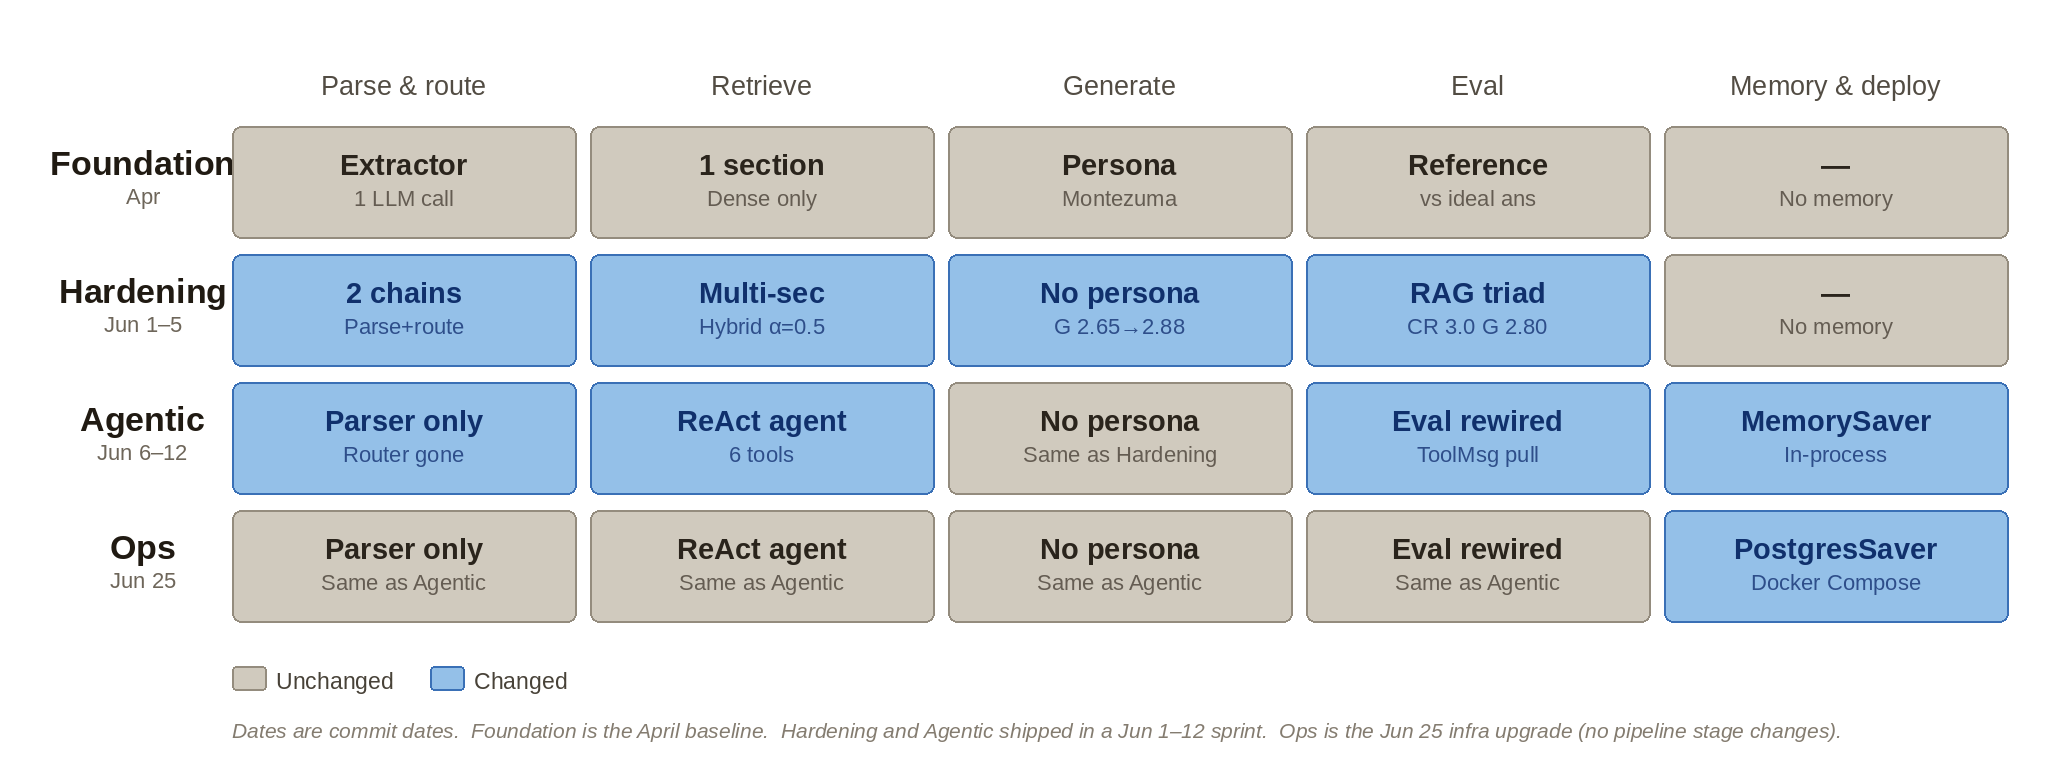
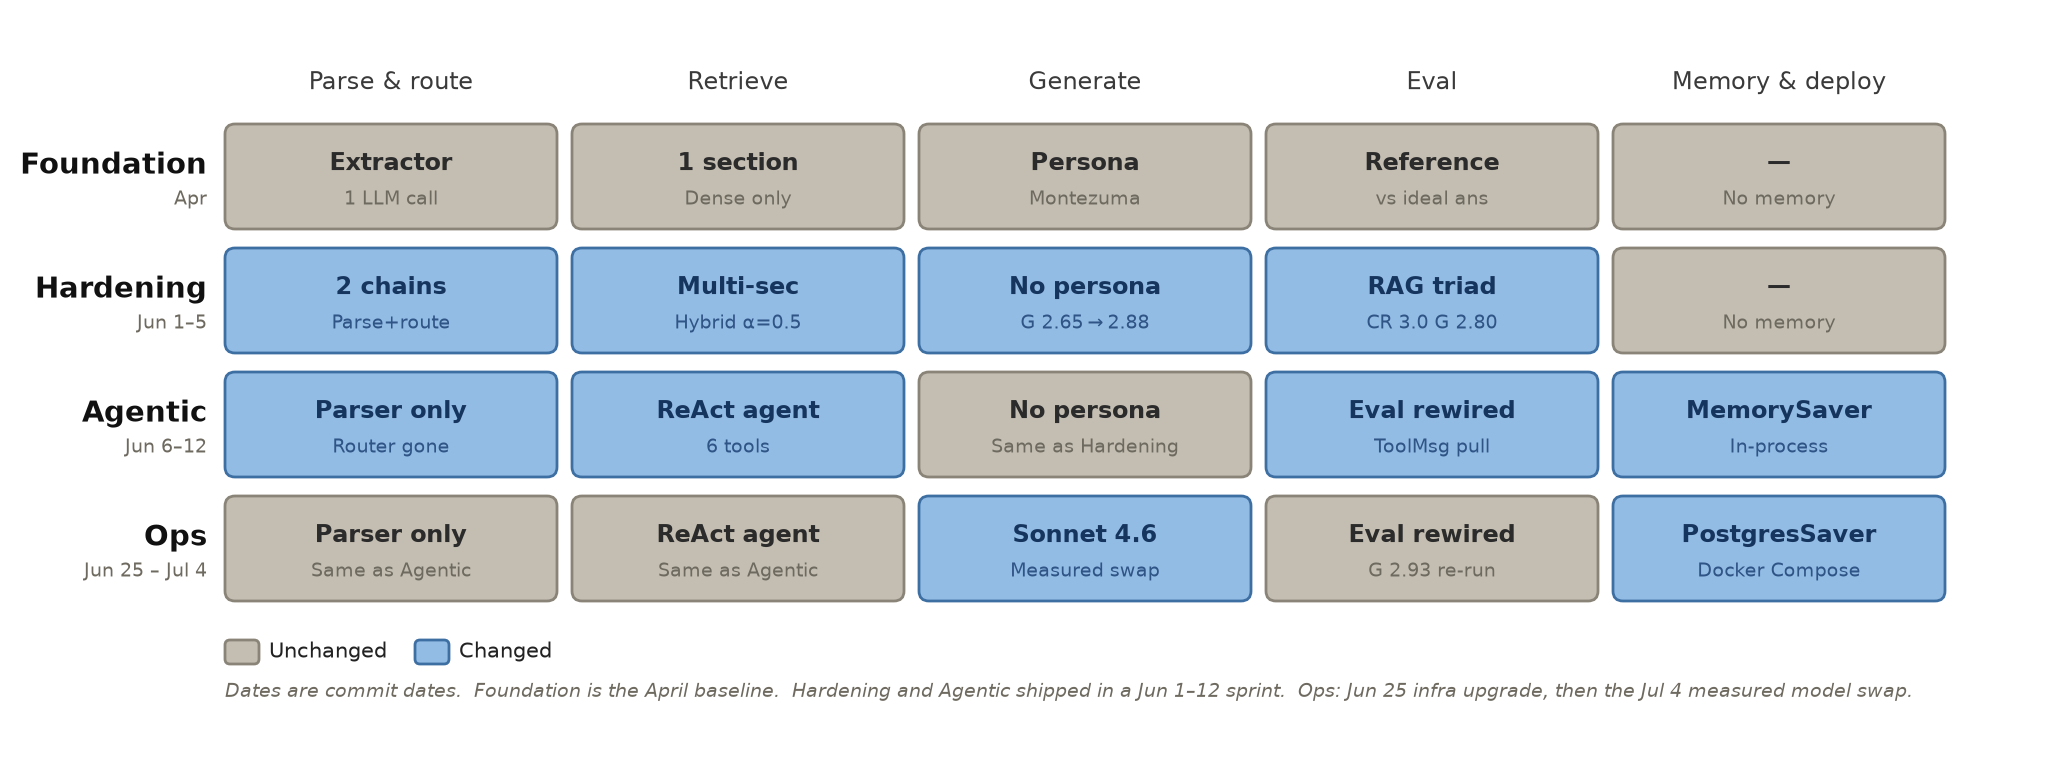
updated diagram

diff --git a/docs/civ_rag_evolution.py b/docs/civ_rag_evolution.py
@@ -1,0 +1,140 @@
+"""Generates docs/civ_rag_evolution.png (the architecture evolution diagram).
+
+Regenerate after any phase/stage change:
+
+    uv run --with matplotlib python docs/civ_rag_evolution.py
+
+Gray = stage carried over unchanged; blue = deliberate architecture decision.
+"""
+
+import matplotlib.pyplot as plt
+from matplotlib.patches import FancyBboxPatch
+
+# --- style ---------------------------------------------------------------
+GRAY_FILL = "#C4BEB2"
+GRAY_EDGE = "#8A8478"
+GRAY_TITLE = "#2B2B2B"
+GRAY_SUB = "#6E6A60"
+
+BLUE_FILL = "#93BCE5"
+BLUE_EDGE = "#3E6FA3"
+BLUE_TITLE = "#16355E"
+BLUE_SUB = "#2F5486"
+
+HEADER_COLOR = "#3A3A3A"
+FOOT_COLOR = "#6E6A60"
+
+# --- content ---------------------------------------------------------------
+COLUMNS = ["Parse & route", "Retrieve", "Generate", "Eval", "Memory & deploy"]
+
+ROWS = [
+    ("Foundation", "Apr"),
+    ("Hardening", "Jun 1–5"),
+    ("Agentic", "Jun 6–12"),
+    ("Ops", "Jun 25 – Jul 4"),
+]
+
+# (title, subtitle, changed?)
+CELLS = [
+    [
+        ("Extractor", "1 LLM call", False),
+        ("1 section", "Dense only", False),
+        ("Persona", "Montezuma", False),
+        ("Reference", "vs ideal ans", False),
+        ("—", "No memory", False),
+    ],
+    [
+        ("2 chains", "Parse+route", True),
+        ("Multi-sec", "Hybrid α=0.5", True),
+        ("No persona", "G 2.65 → 2.88", True),
+        ("RAG triad", "CR 3.0 G 2.80", True),
+        ("—", "No memory", False),
+    ],
+    [
+        ("Parser only", "Router gone", True),
+        ("ReAct agent", "6 tools", True),
+        ("No persona", "Same as Hardening", False),
+        ("Eval rewired", "ToolMsg pull", True),
+        ("MemorySaver", "In-process", True),
+    ],
+    [
+        ("Parser only", "Same as Agentic", False),
+        ("ReAct agent", "Same as Agentic", False),
+        ("Sonnet 4.6", "Measured swap", True),
+        ("Eval rewired", "G 2.93 re-run", False),
+        ("PostgresSaver", "Docker Compose", True),
+    ],
+]
+
+FOOTNOTE = (
+    "Dates are commit dates.  Foundation is the April baseline.  "
+    "Hardening and Agentic shipped in a Jun 1–12 sprint.  "
+    "Ops: Jun 25 infra upgrade, then the Jul 4 measured model swap."
+)
+
+# --- layout (in pixels; figure is 2064 x 778 at dpi=100) -------------------
+W, H = 2064, 778
+LEFT = 225          # x where the first column of cells starts
+COL_W, COL_GAP = 332, 15
+ROW_TOP = 124       # y (from top) where the first row of cells starts
+ROW_H, ROW_GAP = 105, 19
+HEADER_Y = 83       # y (from top) of the column header baseline
+
+fig = plt.figure(figsize=(W / 100, H / 100), dpi=100)
+ax = fig.add_axes([0, 0, 1, 1])
+ax.set_xlim(0, W)
+ax.set_ylim(0, H)
+ax.invert_yaxis()
+ax.axis("off")
+
+
+def draw_cell(x, y, w, h, title, sub, changed):
+    fill, edge = (BLUE_FILL, BLUE_EDGE) if changed else (GRAY_FILL, GRAY_EDGE)
+    t_col, s_col = (BLUE_TITLE, BLUE_SUB) if changed else (GRAY_TITLE, GRAY_SUB)
+    ax.add_patch(
+        FancyBboxPatch(
+            (x, y), w, h,
+            boxstyle="round,pad=0,rounding_size=10",
+            facecolor=fill, edgecolor=edge, linewidth=2,
+        )
+    )
+    ax.text(x + w / 2, y + h * 0.38, title, ha="center", va="center",
+            fontsize=17, fontweight="bold", color=t_col)
+    ax.text(x + w / 2, y + h * 0.72, sub, ha="center", va="center",
+            fontsize=13.5, color=s_col)
+
+
+# column headers
+for c, name in enumerate(COLUMNS):
+    ax.text(LEFT + c * (COL_W + COL_GAP) + COL_W / 2, HEADER_Y, name,
+            ha="center", va="center", fontsize=17, color=HEADER_COLOR)
+
+# row labels + cells
+for r, ((phase, date), row_cells) in enumerate(zip(ROWS, CELLS)):
+    y = ROW_TOP + r * (ROW_H + ROW_GAP)
+    ax.text(LEFT - 18, y + ROW_H * 0.40, phase, ha="right", va="center",
+            fontsize=21, fontweight="bold", color="#111111")
+    ax.text(LEFT - 18, y + ROW_H * 0.72, date, ha="right", va="center",
+            fontsize=13.5, color=GRAY_SUB)
+    for c, (title, sub, changed) in enumerate(row_cells):
+        draw_cell(LEFT + c * (COL_W + COL_GAP), y, COL_W, ROW_H, title, sub, changed)
+
+# legend
+ly = ROW_TOP + 4 * (ROW_H + ROW_GAP) + 20
+for x, fill, edge, label in [
+    (LEFT, GRAY_FILL, GRAY_EDGE, "Unchanged"),
+    (LEFT + 190, BLUE_FILL, BLUE_EDGE, "Changed"),
+]:
+    ax.add_patch(
+        FancyBboxPatch((x, ly), 34, 24, boxstyle="round,pad=0,rounding_size=5",
+                       facecolor=fill, edgecolor=edge, linewidth=2)
+    )
+    ax.text(x + 44, ly + 12, label, ha="left", va="center", fontsize=15,
+            color="#222222")
+
+# footnote
+ax.text(LEFT, ly + 52, FOOTNOTE, ha="left", va="center", fontsize=13.5,
+        color=FOOT_COLOR, style="italic")
+
+fig.savefig("docs/civ_rag_evolution.png", dpi=100)
+print("wrote docs/civ_rag_evolution.png")

diff --git a/docs/architecture.md b/docs/architecture.md
@@ -2,7 +2,7 @@
 
 This is the decision log behind the civ-rag-pipeline: what problem forced each change, what alternative was considered and rejected, and what the evaluation harness measured before and after. The companion diagram and quick-reference table are in the [main README](../README.md).
 
-**On the phase labels.** Foundation, Hardening, Agentic, and Ops are retrospective narrative groupings, not commit tags — they were never named as phases while the work was happening. Checked against the actual commit history, the work falls into an **April baseline** (Foundation: Apr 18–29 — single-call extractor, single-section dense retrieval, reference-based eval, the Montezuma persona, and a Chroma→Pinecone migration), a **June 1–5 hardening sprint** (Hardening: the RAG triad, multi-section parallel + hybrid retrieval, persona removal, the two-chain split, and eval hardening), a **June 6–12 agentic experiment** (Agentic: the ReAct agent with memory, the eval breaking and being rewired, and structured logging), and a **June 25 infra upgrade** (Ops: replacing `MemorySaver` with `PostgresSaver` and containerizing the app with Docker Compose — no pipeline stage changes). The dates and commit hashes in each entry below are the ground truth.
+**On the phase labels.** Foundation, Hardening, Agentic, and Ops are retrospective narrative groupings, not commit tags — they were never named as phases while the work was happening. Checked against the actual commit history, the work falls into an **April baseline** (Foundation: Apr 18–29 — single-call extractor, single-section dense retrieval, reference-based eval, the Montezuma persona, and a Chroma→Pinecone migration), a **June 1–5 hardening sprint** (Hardening: the RAG triad, multi-section parallel + hybrid retrieval, persona removal, the two-chain split, and eval hardening), a **June 6–12 agentic experiment** (Agentic: the ReAct agent with memory, the eval breaking and being rewired, and structured logging), and a **June 25 – July 4 operations phase** (Ops: replacing `MemorySaver` with `PostgresSaver` and containerizing the app with Docker Compose — no pipeline stage changes — then a July 4 measured model swap to Sonnet 4.6). The dates and commit hashes in each entry below are the ground truth.
 
 **Mechanics vs. scores.** Everything about *how the code works* in the entries below is verified against the actual commit diffs. The eval *scores* (CR/G/AR numbers) come from recorded eval runs captured in development notes, not from the diffs, which contain code rather than results — so treat the mechanics as exact and the numbers as reported-from-notes.
 
@@ -15,8 +15,7 @@ This is the decision log behind the civ-rag-pipeline: what problem forced each c
 | Foundation | Reference-based (Faithfulness + Relevance vs ideal answers) | 20 baseline → 18 final | F 2.20 / R 2.40 baseline → R 2.89 after a routing fix; 5 → 0 retrieval failures |
 | Hardening | RAG triad (CR / G / AR), hardened — AR vs ideal answer | 15 | CR 3.0 / G 2.80 / AR 2.93 |
 | Agentic | RAG triad, rewired for agent (ToolMessage extraction) | 15 | CR 3.0 / G 2.73 / AR 2.80 |
-| Ops | No pipeline changes | — | — |
-| Model swap | RAG triad, same harness; Sonnet 4.6 as agent model | 15 | CR 3.00 / G 2.93 / AR 2.93 |
+| Ops | RAG triad, same harness; Jul 4 model swap to Sonnet 4.6 | 15 | CR 3.00 / G 2.93 / AR 2.93 |
 
 *Foundation's scores aren't directly comparable to the triad scores — they measure against ideal answers rather than retrieved chunks. The metric change is itself part of the story: a shift from "is the output good?" to "which stage failed and why?"*
 
@@ -41,10 +40,8 @@ This is the decision log behind the civ-rag-pipeline: what problem forced each c
 - [The eval breaks: what going agentic costs you](#the-eval-breaks-what-going-agentic-costs-you)
 - [Eval rewired: ToolMessage extraction plus structured logging](#eval-rewired-toolmessage-extraction-plus-structured-logging)
 
-**Ops (Jun 25)**
+**Ops (Jun 25 – Jul 4)**
 - [Persistent memory and containerization: PostgresSaver + Docker Compose](#persistent-memory-and-containerization-postgressaver--docker-compose)
-
-**Model swap (Jul 4)**
 - [Prior-override investigation: the measured model swap](#prior-override-investigation-the-measured-model-swap)
 
 ---

diff --git a/README.md b/README.md
@@ -23,7 +23,7 @@ Live demo requires password due to API costs — screenshots at the bottom.
 
 ## Architecture evolution
 
-Each change was driven by a specific, measured failure in the state before it — not a rewrite for its own sake. The work fell into four phases: an **April baseline** (Foundation), a **June 1–5 hardening sprint** (Hardening), a **June 6–12 agentic experiment** (Agentic), and a **June 25 infra upgrade** (Ops). The diagram tracks five pipeline stages across those phases: gray means a stage carried over unchanged, blue means a deliberate architecture decision.
+Each change was driven by a specific, measured failure in the state before it — not a rewrite for its own sake. The work fell into four phases: an **April baseline** (Foundation), a **June 1–5 hardening sprint** (Hardening), a **June 6–12 agentic experiment** (Agentic), and a **June 25 – July 4 operations phase** (Ops: containerization and persistent memory, then a measured model swap). The diagram tracks five pipeline stages across those phases: gray means a stage carried over unchanged, blue means a deliberate architecture decision.
 
 ![Architecture evolution](docs/civ_rag_evolution.png)
 
@@ -34,7 +34,7 @@ Click through any cell below for the full reasoning behind that decision — wha
 | **Foundation** · Apr | [Extractor — 1 LLM call](docs/architecture.md#extractor-one-combined-llm-call) | [1 section, dense only](docs/architecture.md#1-section-dense-only) | [Persona — Montezuma](docs/architecture.md#persona-the-montezuma-voice) | [Reference eval](docs/architecture.md#reference-eval-faithfulness-and-relevance-vs-ideal-answers) | — |
 | **Hardening** · Jun 1–5 | [2 chains](docs/architecture.md#2-chains-splitting-parser-and-router) | [Multi-section, hybrid (α-weighted)](docs/architecture.md#multi-section-retrieval-with-hybrid-search) | [No persona](docs/architecture.md#persona-removed-the-controlled-experiment) | [RAG triad, hardened](docs/architecture.md#rag-triad-context-relevance-groundedness-answer-relevance) | — |
 | **Agentic** · Jun 6–12 | [Parser only](docs/architecture.md#parser-only-router-deleted-for-the-react-agent) | [ReAct agent, 6 tools + memory](docs/architecture.md#react-agent-with-6-tools-and-cross-session-memory) | [No persona](docs/architecture.md#persona-removed-the-controlled-experiment) | [Eval rewired](docs/architecture.md#eval-rewired-toolmessage-extraction-plus-structured-logging) | [MemorySaver](docs/architecture.md#react-agent-with-6-tools-and-cross-session-memory) |
-| **Ops** · Jun 25 | ← same | ← same | ← same | ← same | [PostgresSaver + Docker Compose](docs/architecture.md#persistent-memory-and-containerization-postgressaver--docker-compose) |
+| **Ops** · Jun 25 – Jul 4 | ← same | ← same | [Sonnet 4.6 — measured swap](docs/architecture.md#prior-override-investigation-the-measured-model-swap) | ← same | [PostgresSaver + Docker Compose](docs/architecture.md#persistent-memory-and-containerization-postgressaver--docker-compose) |
 
 **Eval scores by phase** (mechanics are commit-verified; score numbers are from recorded eval runs):
 
@@ -43,8 +43,7 @@ Click through any cell below for the full reasoning behind that decision — wha
 | Foundation | Reference-based (Faithfulness + Relevance vs ideal answers) | 20 baseline → 18 final | F 2.20 / R 2.40 → R 2.89 after routing fix; 5 → 0 retrieval failures |
 | Hardening | RAG triad (CR / G / AR), hardened — AR vs ideal answer | 15 | CR 3.0 / G 2.80 / AR 2.93 |
 | Agentic | RAG triad, rewired for agent (ToolMessage extraction) | 15 | CR 3.0 / G 2.73 / AR 2.80 |
-| Ops | No pipeline changes | — | — |
-| Model swap · Jul 4 | RAG triad, same harness; Sonnet 4.6 as agent model | 15 | CR 3.00 / G 2.93 / AR 2.93 |
+| Ops | RAG triad, same harness; Jul 4 model swap to Sonnet 4.6 | 15 | CR 3.00 / G 2.93 / AR 2.93 |
 
 *Foundation's Faithfulness/Relevance scores aren't directly comparable to the triad scores — they measure against ideal answers rather than retrieved chunks. The metric change is itself part of the story: a shift from "is the output good?" to "which stage failed and why?"*
 